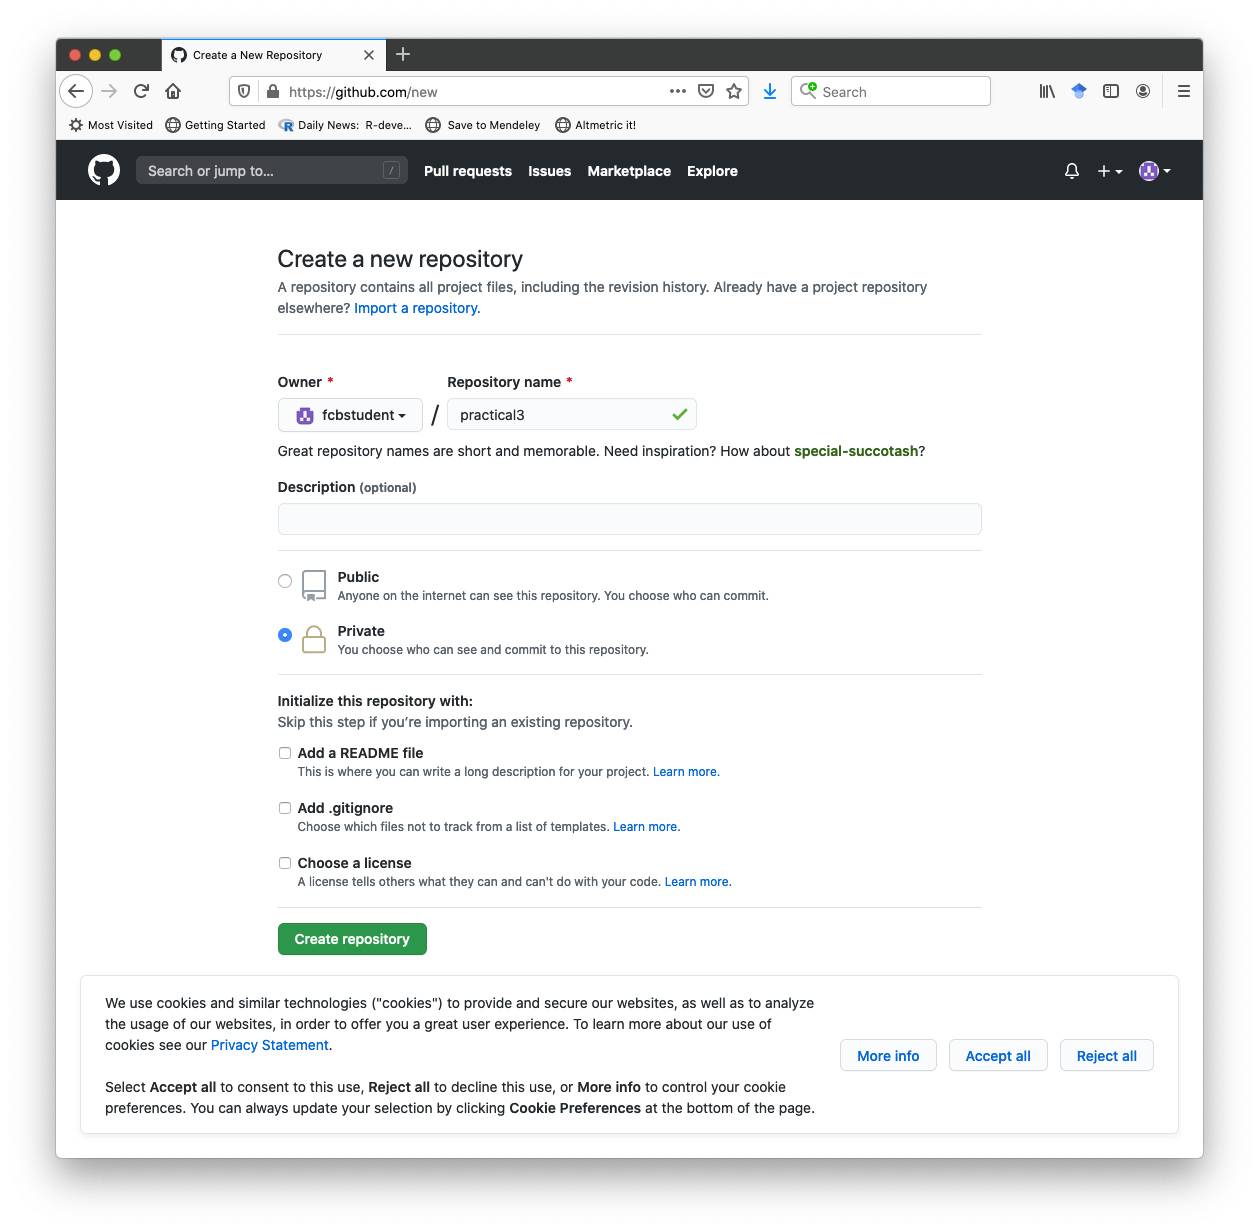
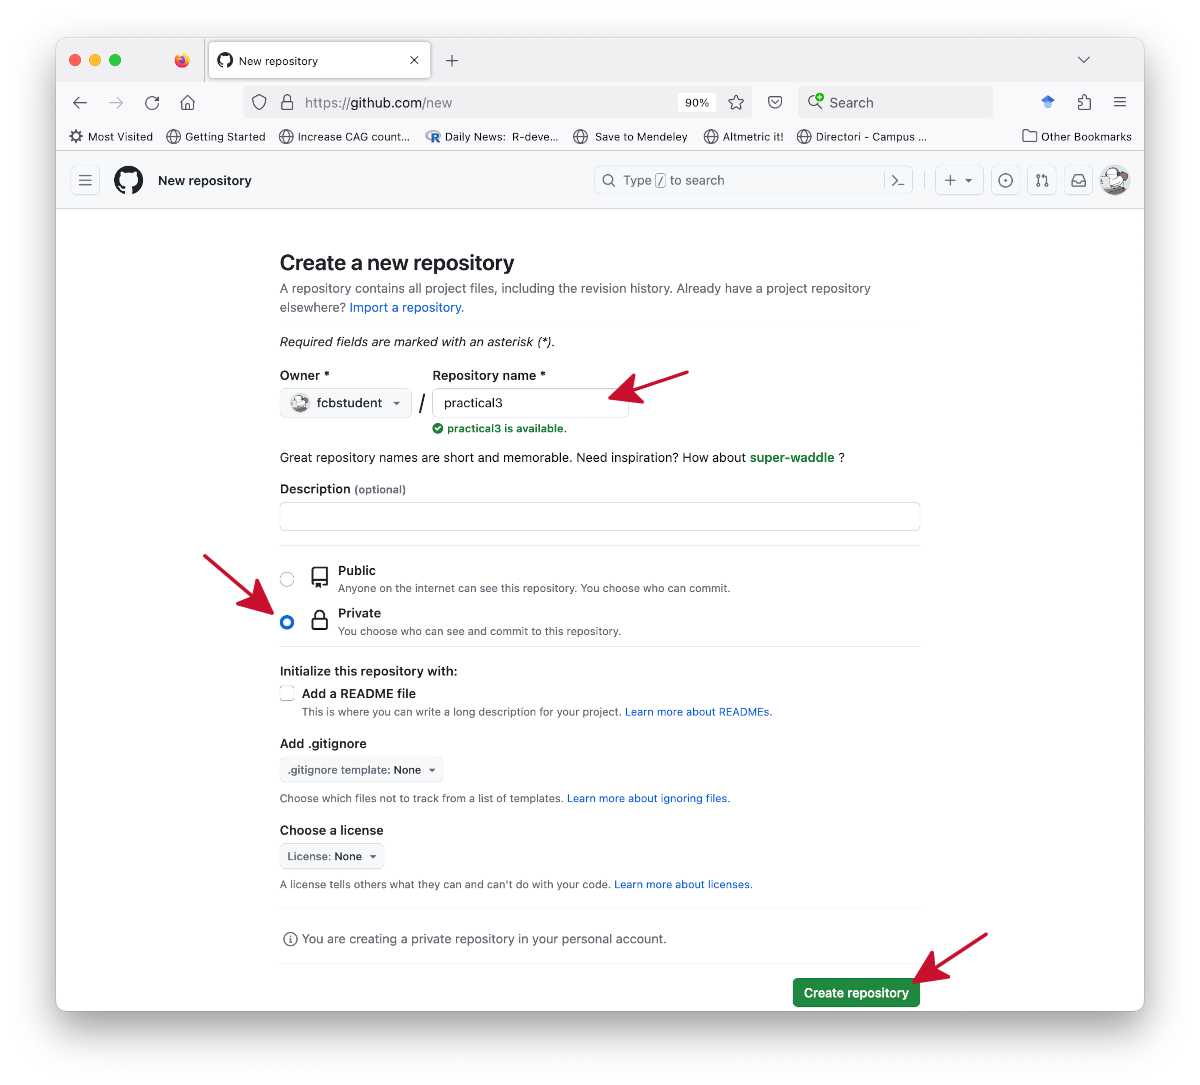
Updated image files for creating a new repo

Changed region(s): [[0.0308, 0.0304, 0.9558, 0.9429], [0.8633, 0.8516, 0.925, 0.882]]

diff --git a/practical3.md b/practical3.md
@@ -255,7 +255,7 @@ We illustrate such process using the previous local Git repo.
 To get started, log into your GitHub account, click on the plus sign on the
 top-right and select "New repository" from the pull-down menu.
 
-![](./GHnewrepo.png)
+![](./GHnewrepo1.png)
 
 In the next page, type `practical3` in the textbox under `Repository name`, select
 `Private` for the type of repository and press the button `Create repository`.
